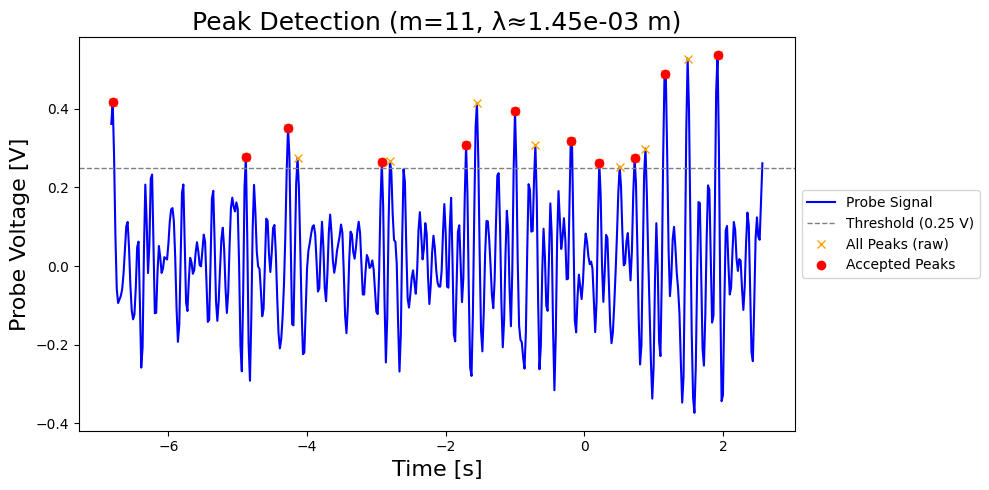
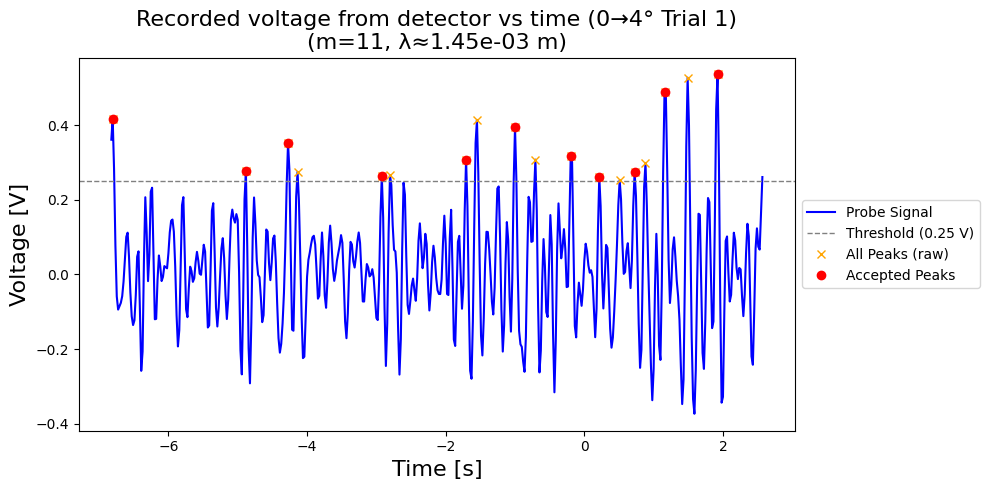
change

diff --git a/noisefilter2.py b/noisefilter2.py
@@ -104,6 +104,9 @@ rows = []
 grouped_results = {2: [], 4: [], 6: []}
 grouped_m = {2: [], 4: [], 6: []}
 
+# Per-group trial counters (reset per angle)
+trial_counters = {2: 1, 4: 1, 6: 1}
+
 print("\n===== Trial Results =====")
 for fname, theta_a_deg, theta_b_deg in file_specs:
     if not os.path.exists(fname):
@@ -129,32 +132,32 @@ for fname, theta_a_deg, theta_b_deg in file_specs:
     except Exception as e:
         n_est = np.nan
 
-        # ---------------- Plot and save ----------------
+    # Group-specific trial number
+    angle_group = int(theta_b_deg)
+    trial_number = trial_counters[angle_group]
+
+    # ---------------- Plot and save ----------------
     plt.figure(figsize=(10, 5))
     plt.plot(t_trim, y_trim, label="Probe Signal", color="blue")
 
-    # Horizontal threshold line
     plt.axhline(strong_threshold, color="gray", linestyle="--", linewidth=1,
                 label=f"Threshold ({strong_threshold} V)")
 
-    # Plot all raw peaks (before filtering)
     all_peaks, _ = find_peaks(y_trim, height=peak_height)
     plt.plot(t_trim[all_peaks], y_trim[all_peaks], "x", color="orange", label="All Peaks (raw)")
 
-    # Plot filtered peaks (after separation)
     if len(idx) > 0:
         plt.plot(t_trim[idx], y_trim[idx], "ro", label="Accepted Peaks")
 
     plt.xlabel("Time [s]", fontsize=16)
-    plt.ylabel("Probe Voltage [V]", fontsize=16)
+    plt.ylabel("Voltage [V]", fontsize=16)
 
     if m_meas > 0:
-        plt.title(f"Peak Detection (m={m_meas}, λ≈{2*d_slab_m/m_meas:.2e} m)",
-                fontsize=18)
+        plt.title(f"Recorded voltage from detector vs time (0→{angle_group}° Trial {trial_number})\n"
+                  f"(m={m_meas}, λ≈{2*d_slab_m/m_meas:.2e} m)", fontsize=16)
     else:
-        plt.title("Peak Detection (no valid peaks)", fontsize=18)
+        plt.title(f"0→{angle_group}° Trial {trial_number}: Voltage vs Time graph - peak detection\n(no valid peaks)", fontsize=16)
 
-    # Legend outside
     plt.legend(loc="center left", bbox_to_anchor=(1, 0.5))
     plt.tight_layout()
 
@@ -162,12 +165,12 @@ for fname, theta_a_deg, theta_b_deg in file_specs:
     plt.savefig(plot_path, bbox_inches="tight")
     plt.close()
 
-
     # Record
     rows.append({
         "file": fname,
         "theta_start_deg": theta_a_deg,
         "theta_end_deg": theta_b_deg,
+        "trial_number": trial_number,
         "peaks_m": m_meas,
         "n_estimate": n_est,
         "plot": plot_path
@@ -178,9 +181,12 @@ for fname, theta_a_deg, theta_b_deg in file_specs:
         grouped_results[int(theta_b_deg)].append(n_est)
 
     if np.isfinite(n_est):
-        print(f"{fname}: m = {m_meas}, n = {n_est:.5f}")
+        print(f"{fname}: Trial {trial_number} (0→{angle_group}°) | m = {m_meas}, n = {n_est:.5f}")
     else:
-        print(f"{fname}: m = {m_meas}, n = NaN")
+        print(f"{fname}: Trial {trial_number} (0→{angle_group}°) | m = {m_meas}, n = NaN")
+
+    # Increment this group’s trial counter
+    trial_counters[angle_group] += 1
 
 # ---------------- Summary ----------------
 def summarize(values):
@@ -202,9 +208,9 @@ for angle in (2, 4, 6):
 # ---------------- Save CSV ----------------
 with open(summary_csv, "w", newline="") as f:
     writer = csv.writer(f)
-    writer.writerow(["file", "theta_start_deg", "theta_end_deg", "peaks_m", "n_estimate", "plot_path"])
+    writer.writerow(["file", "theta_start_deg", "theta_end_deg", "trial_number", "peaks_m", "n_estimate", "plot_path"])
     for r in rows:
-        writer.writerow([r["file"], r["theta_start_deg"], r["theta_end_deg"], r["peaks_m"], r["n_estimate"], r["plot"]])
+        writer.writerow([r["file"], r["theta_start_deg"], r["theta_end_deg"], r["trial_number"], r["peaks_m"], r["n_estimate"], r["plot"]])
 
 print(f"\nSummary written to: {summary_csv}")
 print(f"Plots saved under: {out_dir}/")

diff --git a/noisefilter.py b/noisefilter.py
@@ -80,7 +80,7 @@ for i in range(1, 11):
     else:
         trial_results.append((i, 0))
 
-    # ---------------- 5) Plot and save ----------------
+        # ---------------- 5) Plot and save ----------------
     plt.figure(figsize=(10, 5))
     plt.plot(t, y, label="Probe Signal", color="blue")
 
@@ -96,7 +96,20 @@ for i in range(1, 11):
 
     plt.xlabel("Time [s]", fontsize=16)
     plt.ylabel("Probe Voltage [V]", fontsize=16)
-    plt.title(f"Peak Detection (m={m}, λ={2*d/m:.2e} m)" if m > 0 else f"Peak Detection (no valid peaks)", fontsize=18)
+
+    # Use descriptive title with trial number
+    if m > 0:
+        plt.title(
+            f"Recorded voltage from detector vs time (Trial {i})\n"
+            f"m = {m}, λ ≈ {2*d/m:.2e} m",
+            fontsize=16
+        )
+    else:
+        plt.title(
+            f"Recorded voltage from detector vs time (Trial {i})\n"
+            f"No valid peaks",
+            fontsize=16
+        )
 
     # Place legend outside on the right
     plt.legend(loc="center left", bbox_to_anchor=(1, 0.5))
@@ -104,6 +117,7 @@ for i in range(1, 11):
 
     plt.savefig(os.path.join(out_dir, f"{filename}_peaks.png"), bbox_inches="tight")
     plt.close()
+
 
 
 # ---------------- 6) Summary statistics ----------------
